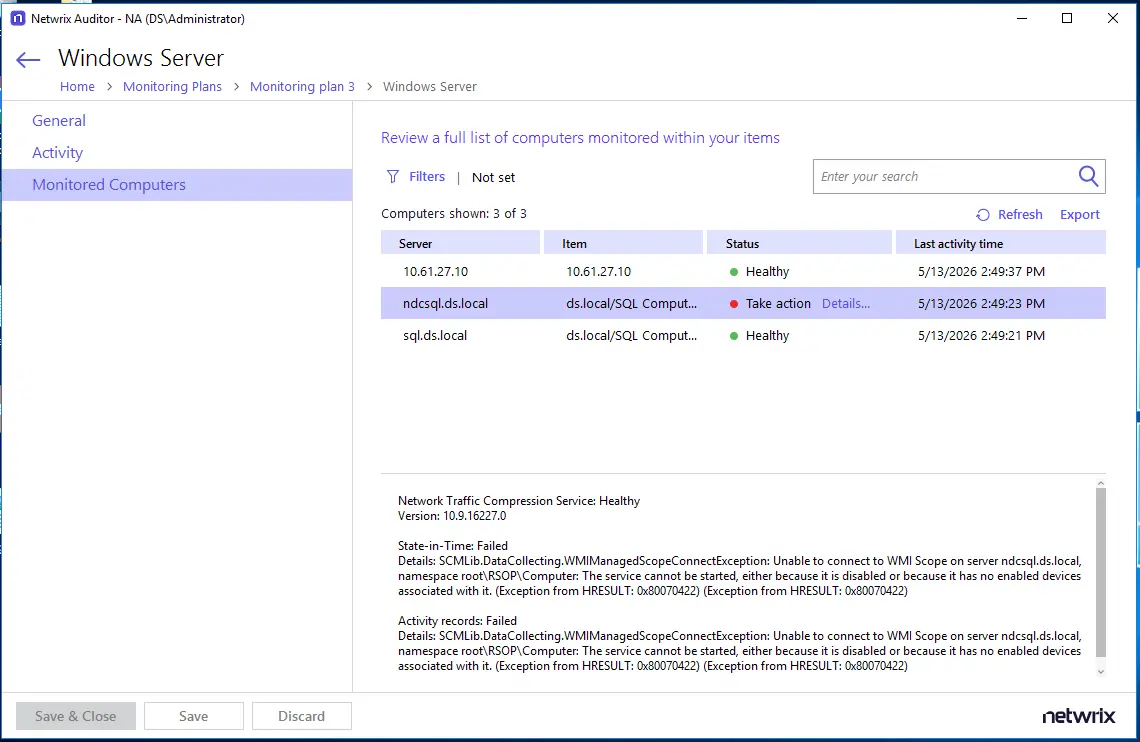
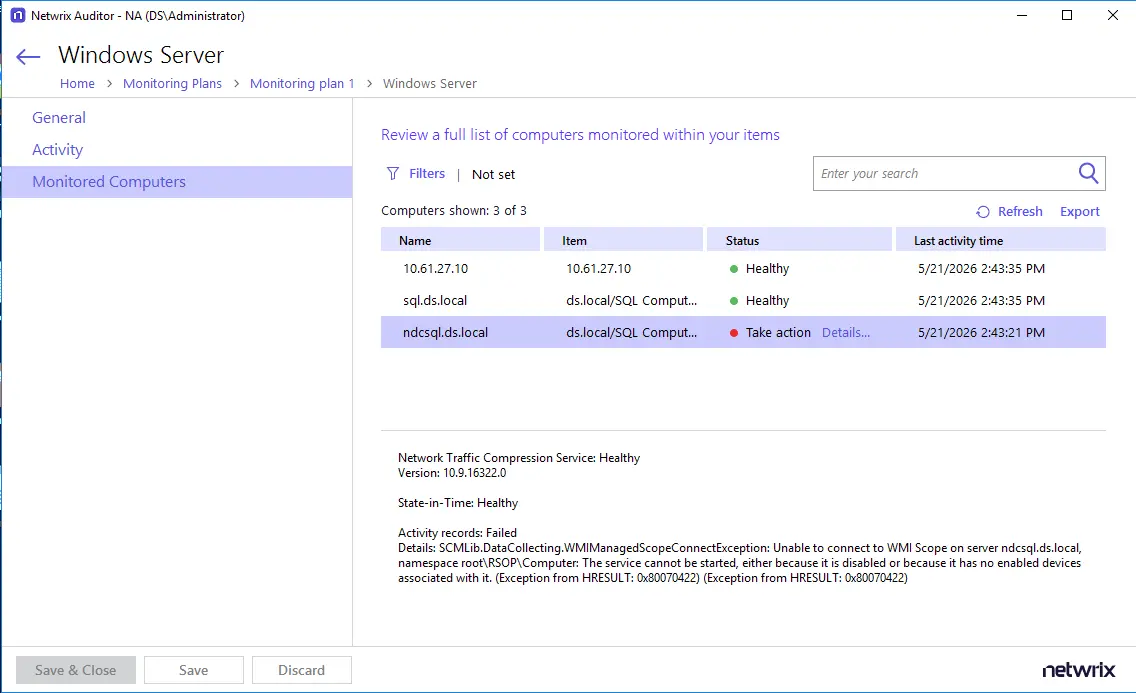
Update UI for filters

Changed region(s): [[0.0, 0.0, 1.0, 1.0], [0.3389, 0.0909, 0.4313, 0.1515], [0.0, 0.1212, 0.0308, 0.1515]]

diff --git a/docs/auditor/10.9/admin/monitoringplans/windows/monitoredcomputers.md b/docs/auditor/10.9/admin/monitoringplans/windows/monitoredcomputers.md
@@ -30,7 +30,7 @@ The grid displays the following columns for each computer:
 
 | Column | Description |
 |---|---|
-| **Server** | The hostname or IP address of the monitored computer. |
+| **Name** | The hostname or IP address of the monitored computer. |
 | **Item** | The source that included this computer in the plan — for example, an IP address, an IP range, or an AD container (OU). |
 | **Status** | A consolidated health indicator for the computer. See [Status Values](#status-values) below. |
 | **Last Activity Time** | The timestamp of the most recent data collection event for this computer. |
@@ -58,9 +58,9 @@ When you select a computer in the grid, the **Details panel** at the bottom of t
 
 **Filters** — Click **Filters** to open the Apply Filters dialog, where you can filter by:
 
-- **Computer status** — Show only computers with a *Healthy* status, only those requiring *Take action*, or both.
-- **Computer name** — Enter a partial or full computer name.
-- **Item name** — Select one or more items (IP ranges, OUs, or individual computers) from the dropdown list.
+- **Status** — Show only computers with a *Healthy* status, only those requiring *Take action*, or both.
+- **Name** — Enter a partial or full computer name.
+- **Items** — Select one or more items (IP ranges, OUs, or individual computers) from the dropdown list.
 
 ![Apply Filters dialog showing Computer status, Computer name, and Item name options](/images/auditor/10.9/admin/monitoringplans/windowsserver/monitored-computers-filters.webp)
 